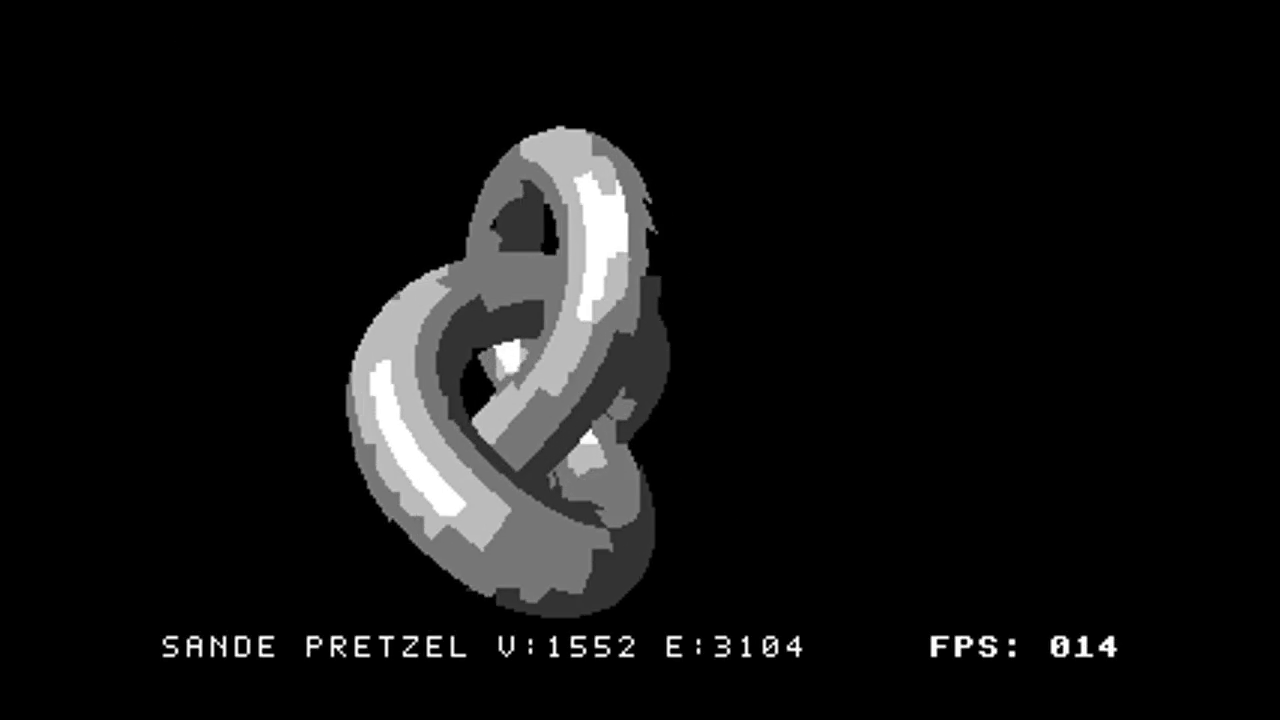
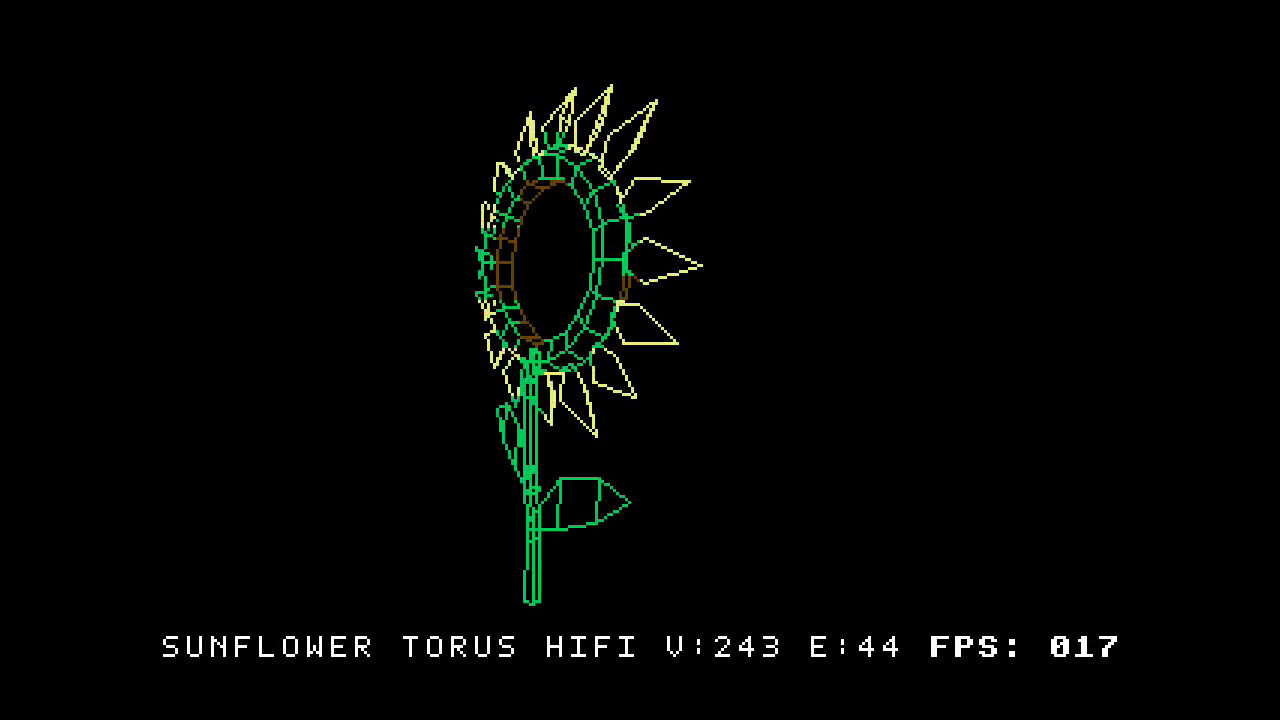
Add v0.7.7 examples showreel

Changed region(s): [[0.125, 0.1222, 0.875, 0.9167]]

diff --git a/README.md b/README.md
@@ -25,14 +25,17 @@ Use `--renderer hors-renderer-v3 --surface-fill metallic` to build a filled obje
 </p>
 
 <p align="center">
-  <strong><a href="assets/c64-3d-toolkit-examples-showreel-v0.7.7.mp4">Watch the full 85-second MP4</a></strong>
+  <strong><a href="assets/c64-3d-toolkit-examples-showreel-v0.7.7.mp4">Watch the full 71-second MP4</a></strong>
 </p>
 
-The footage is captured from completed display buffers in PAL VICE 3.10 and
-shown at native demo timing. It covers the Blender scenes, Demo Cart 2.0,
-HORS-V2 wireframes, HORS-V3 surfaces and textures, HiFi geometry, Sande's
-models, Space Horse and Don't Lose Your Marbles. The video is silent; the
-featured cartridges do not share a soundtrack.
+The footage uses verified completed display buffers captured in PAL VICE 3.10.
+For the showreel, every authored animation sample is presented on a fixed 25 fps
+clock instead of inheriting renderer-dependent capture delays; HUD FPS values
+remain the cartridge's benchmark counters. The reel includes Horse & Sunflower,
+the HiFi horse head and 243-vertex sunflower, Sande's TAC-2, the complete
+1,552-vertex Pretzel wireframe, the HORS-V3 metallic Pretzel, Blender Falling
+Cubes and every Demo Cart 2.0 scene. The video is silent; the featured
+cartridges do not share a soundtrack.
 
 New models by **Sande**, with reproducible builds, a separate
 [Sande performance comparison](docs/PERFORMANCE_COMPARISON.md#sandes-models),
